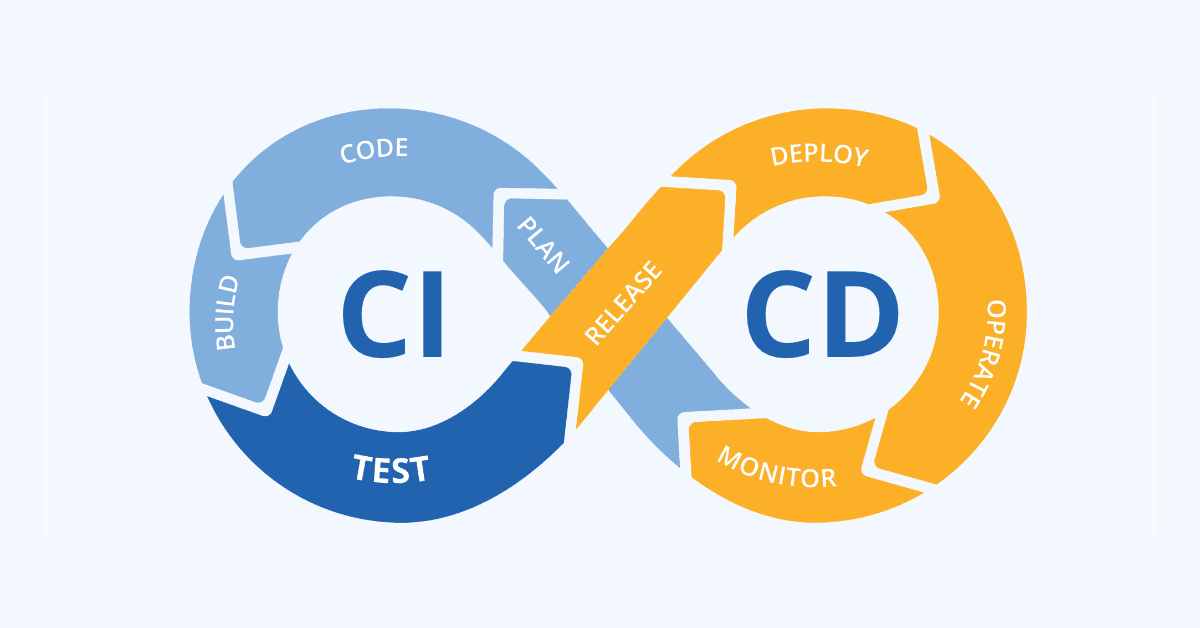
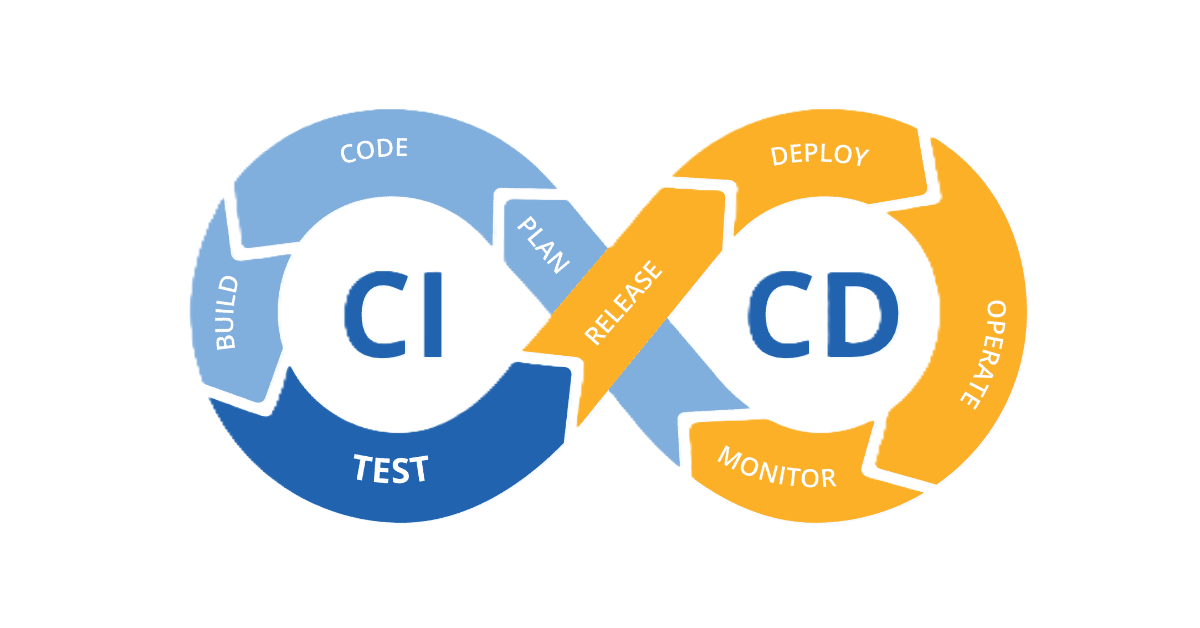
style: update Hero, Proyects, and Stack components for improved layout and styling

diff --git a/src/components/Hero.tsx b/src/components/Hero.tsx
@@ -9,8 +9,8 @@ const Hero = () => {
     const { theme } = useTheme();
 
     return (
-        <div className="text-gray-600 dark:text-white my-10">
-            <section className="body-font text-center p-5 mt-5">
+        <div className="text-gray-600 dark:text-white mt-10 mb-2">
+            <section className="body-font text-center px-5 pt-5 pb-4 mt-5">
                 <h1 className="text-4xl font-bold sm:px-20 py-2">
                     ¡Hola! Mi nombre es Jonathan
                 </h1>
@@ -36,12 +36,12 @@ const Hero = () => {
                 </div>
 
                 {/* SOCIAL ICONS */}
-                <div className="container mx-auto flex justify-center md:justify-start sm:px-16 md:px-8 lg:px-4 xl:px-14 mt-4 gap-4 max-w-6xl">
+                <div className="container mx-auto flex justify-center md:justify-start sm:px-16 md:px-8 lg:px-4 xl:px-14 mt-2 gap-4 max-w-6xl">
                     <a
                         href="https://github.com/johnydeev"
                         target="_blank"
                         rel="noopener noreferrer"
-                        className="transition-all duration-300 hover:-translate-y-2 w-20 p-2"
+                        className="transition-all duration-300 hover:-translate-y-2 w-14 p-1"
                     >
                         <img
                             className="rounded-full dark:bg-gray-900 dark:border-slate-400"
@@ -58,7 +58,7 @@ const Hero = () => {
                         href="https://www.linkedin.com/in/johnydeev/"
                         target="_blank"
                         rel="noopener noreferrer"
-                        className="transition-all duration-300 hover:-translate-y-2 w-20 p-2"
+                        className="transition-all duration-300 hover:-translate-y-2 w-14 p-1"
                     >
                         <img
                             className="rounded-full"

diff --git a/src/components/Proyects.tsx b/src/components/Proyects.tsx
@@ -37,7 +37,7 @@ const Proyects: React.FC = () => {
                 un automovil segun las necesidades y ubicacion del usuario
               </p>
               <div className="flex justify-center">
-                <picture className="transition-all duration-300 hover:-translate-y-2 w-20 p-3">
+                <picture className="transition-all duration-300 hover:-translate-y-2 w-14 p-1">
                   <a
                     href="https://infinit-ecommerce.vercel.app/"
                     target="_blank"
@@ -79,7 +79,7 @@ const Proyects: React.FC = () => {
                 adaptativo
               </p>
               <div className="flex justify-center">
-                <picture className="transition-all duration-300 hover:-translate-y-2 w-20 p-3">
+                <picture className="transition-all duration-300 hover:-translate-y-2 w-14 p-1">
                   <a
                     href="https://aws-reactjs-castro-jonathan.s3.amazonaws.com/index.html"
                     target="_blank"
@@ -123,7 +123,7 @@ const Proyects: React.FC = () => {
                 Desarrollado con Node.js, PostgreSQL y Docker.
               </p>
               <div className="flex justify-center">
-                <picture className="transition-all duration-300 hover:-translate-y-2 w-20 p-3">
+                <picture className="transition-all duration-300 hover:-translate-y-2 w-14 p-1">
                   <a
                     href="https://github.com/johnydeev"
                     target="_blank"

diff --git a/src/components/Stack.tsx b/src/components/Stack.tsx
@@ -18,7 +18,10 @@ const TextBadge: React.FC<{ name: string }> = ({ name }) => (
 
 const ImgBadge: React.FC<TechItem> = ({ name, src, width = 72 }) => (
     <div className="flex flex-col items-center gap-3">
-        <div className="w-20 h-20 sm:w-24 sm:h-24 flex items-center justify-center transition hover:scale-110">
+        <div
+            className="flex items-center justify-center transition hover:scale-110"
+            style={{ width }}
+        >
             <Image
                 width={width}
                 height={width}
@@ -89,7 +92,7 @@ const Stack: React.FC = () => {
                     <CategorySection title="DevOps & Tools">
                         <ImgBadge name="Docker" src="/docker.svg" width={80} />
                         <ImgBadge name="GitHub" src="/github-mark.svg" width={72} />
-                        <ImgBadge name="CI/CD" src="/ci-cd.png" width={80} />
+                        <ImgBadge name="CI/CD" src="/ci-cd.png" width={144} />
                         <ImgBadge name="GCP" src="/gcp.svg" width={72} />
                         <ImgBadge name="Vercel" src="/vercel.svg" width={72} />
                     </CategorySection>
